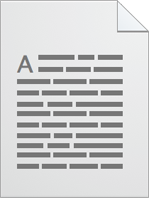
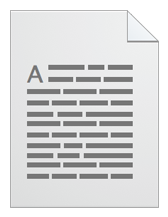
Nice hover doc effects

diff --git a/views/styles/style.sass b/views/styles/style.sass
@@ -304,7 +304,7 @@ table
     border: none
     display: inline-block
     text-align: center
-    width: 149px
+    width: 168px
     font-size: 12px
     margin-right: 80px
     color: #416488
@@ -313,11 +313,17 @@ table
     .doc_img
       display: block
       background: url('doc.png') no-repeat
-      width: 149px
-      height: 198px
+      width: 168px
+      height: 217px
       margin-bottom: 10px
     span
       border-bottom: 1px solid #b5c7d9
+    &:hover
+      color: #3685d6
+      span
+        border-color: #c7e1fa
+      .doc_img
+        background: url('doc_hover.png') no-repeat
 footer
   background: none !important
   color: #ddd
